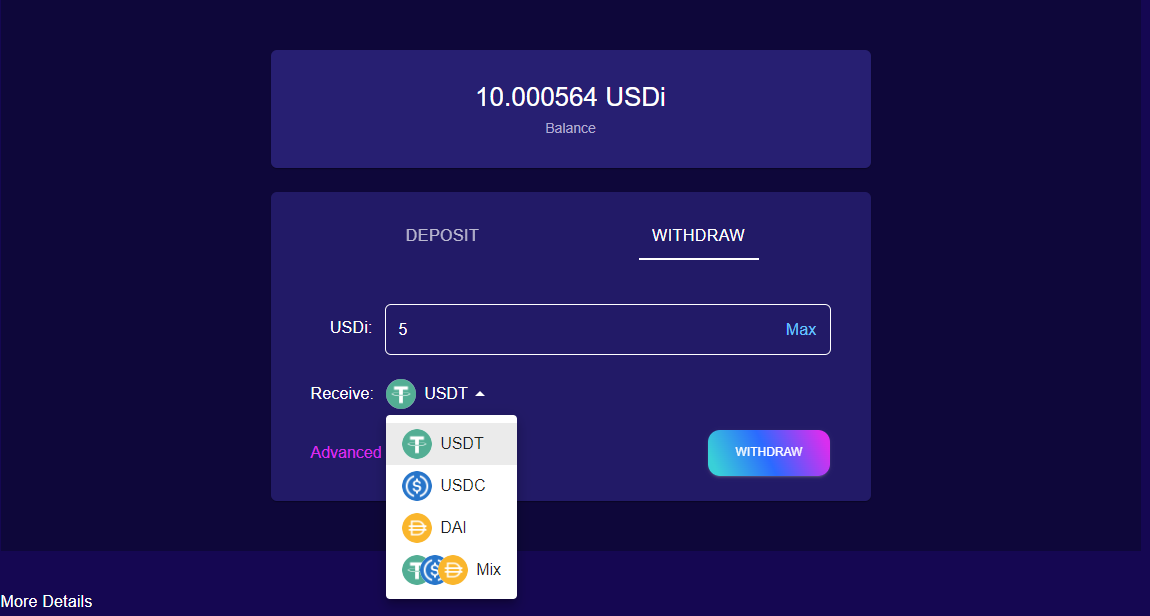
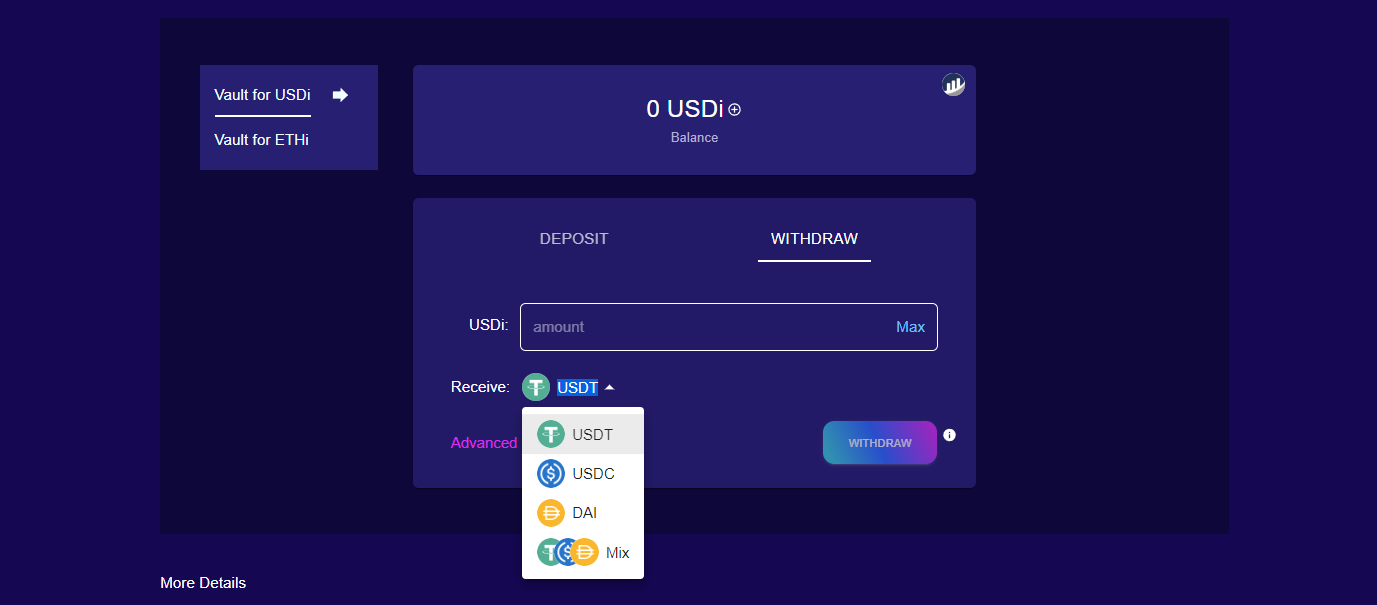
handbook partial update

diff --git a/src/theme/SearchBar.js b/src/theme/SearchBar.js
@@ -1,0 +1,10 @@
+import React from 'react';
+import SearchBar from '@theme-original/SearchBar';
+
+export default function SearchBarWrapper(props) {
+  return (
+    <>
+      <SearchBar {...props} />
+    </>
+  );
+}

diff --git a/i18n/en/docusaurus-plugin-content-docs/current/user-handbook.md b/i18n/en/docusaurus-plugin-content-docs/current/user-handbook.md
@@ -35,19 +35,31 @@ At the present, BOC works on Ethereum, BNB Chain and Polygon. If we need to swit
 
 ## Investment and Redemption
 
+### 
+
 ### Deposit
 
- Once the wallet has been successfully connected, we can complete the deposit by choosing the stablecoin to use and selecting the desired amount and then clicking on `DEPOSIT`.
+ Once the wallet has been successfully connected, we can complete the deposit by choosing the vault we what to use, on the `USDi Vault` we will have the stablecoin to use and selecting the desired amount and then clicking on `DEPOSIT`.
 
 ![pic7](/images/pic-7.png)
 
-**Exchanged**: Exchange function enablement. Each strategy in the BOC uses different stablecoins. When we withdraw money, we will do it according to the strategy APY from low to high. If a non-USDT strategy is obtained, the stable currency of the corresponding strategy will be returned, e.g. if Yearn LUSD is obtained, LUSD will be returned and if the exchange is closed, the corresponding value of LUSD will be returned to our account. If redemption is enabled, the Slippage parameter needs to be set.
+On the `ETHi Vault` we will have the possibility of investing ETH by selecting the desired amount and then clicking on `DEPOSIT`.
+
+![depositpage_eth](/images/depositpage_eth.png)
+
+The `ETHi Vault` differently to the `USDi Vault` has a gas fee estimation.
 
 ### Withdrawal
 
-After successfully connecting the wallet, we can complete the withdrawal by selecting the stablecoin or mix to withdraw and the desired USDi and clicking `WITHDRAW`.
+After successfully connecting the wallet, we can complete the withdrawal by selecting vault we what to do use, on the `USDi Vault` is the possibility to withdraw a single stablecoin or mix we complete with the desired USDi and clicking `WITHDRAW`.
 
 ![pic8](/images/pic-8.png)
+
+On the `ETHi Vault` there is the possibility to withdraw only ETH we complete with the desired ETHi and clicking `WITHDRAW`.
+
+![withdraw_eth](/images/withdraw_eth.png)
+
+**Exchanged**: Exchange function enablement. Each strategy in the BOC uses different stablecoins. When we withdraw money, we will do it according to the strategy APY from low to high. If a non-USDT strategy is obtained, the stable currency of the corresponding strategy will be returned, e.g. if Yearn LUSD is obtained, LUSD will be returned and if the exchange is closed, the corresponding value of LUSD will be returned to our account. If redemption is enabled, the Slippage parameter needs to be set.
 
 ### Withdrawal Advanced Parameters
 
@@ -64,6 +76,11 @@ The advanced setup parameters are:
 If the USDi is not shown on your wallet, you need to add it manually, we make it really easy you just to click on the `+` next to your USDi balance and press `Add Token`. Then you will see you USDi balance on your metamask wallet.
 
 ![addtoken](/images/addtoken.png)
+
+Analogously, ETHi can be added to the wallet in the same way.
+
+![addtoken_ethi](/images/addtoken_ethi.png)
+
 
 ## Dashboard
 
